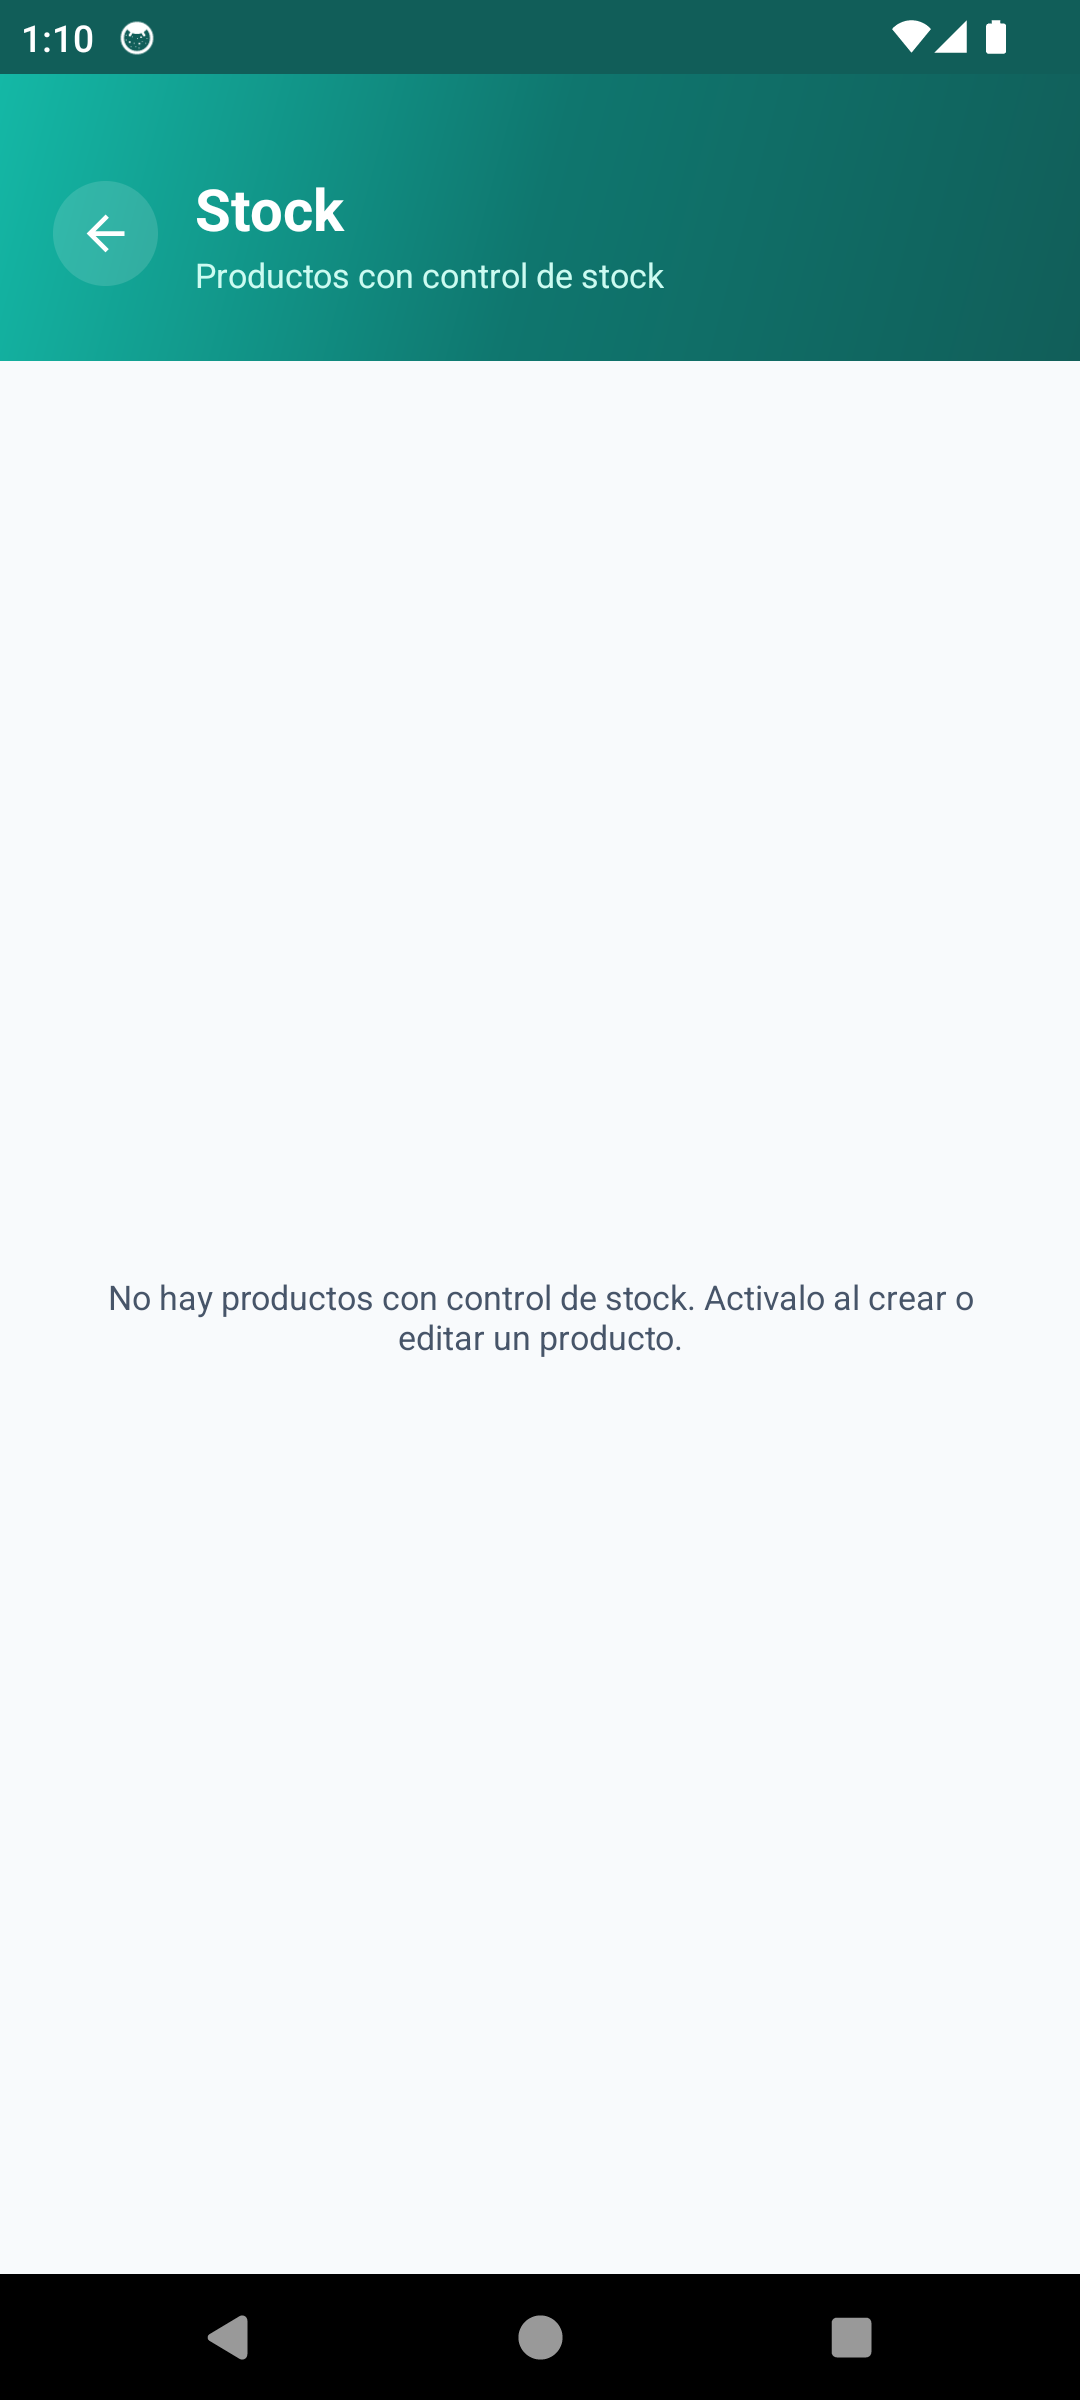
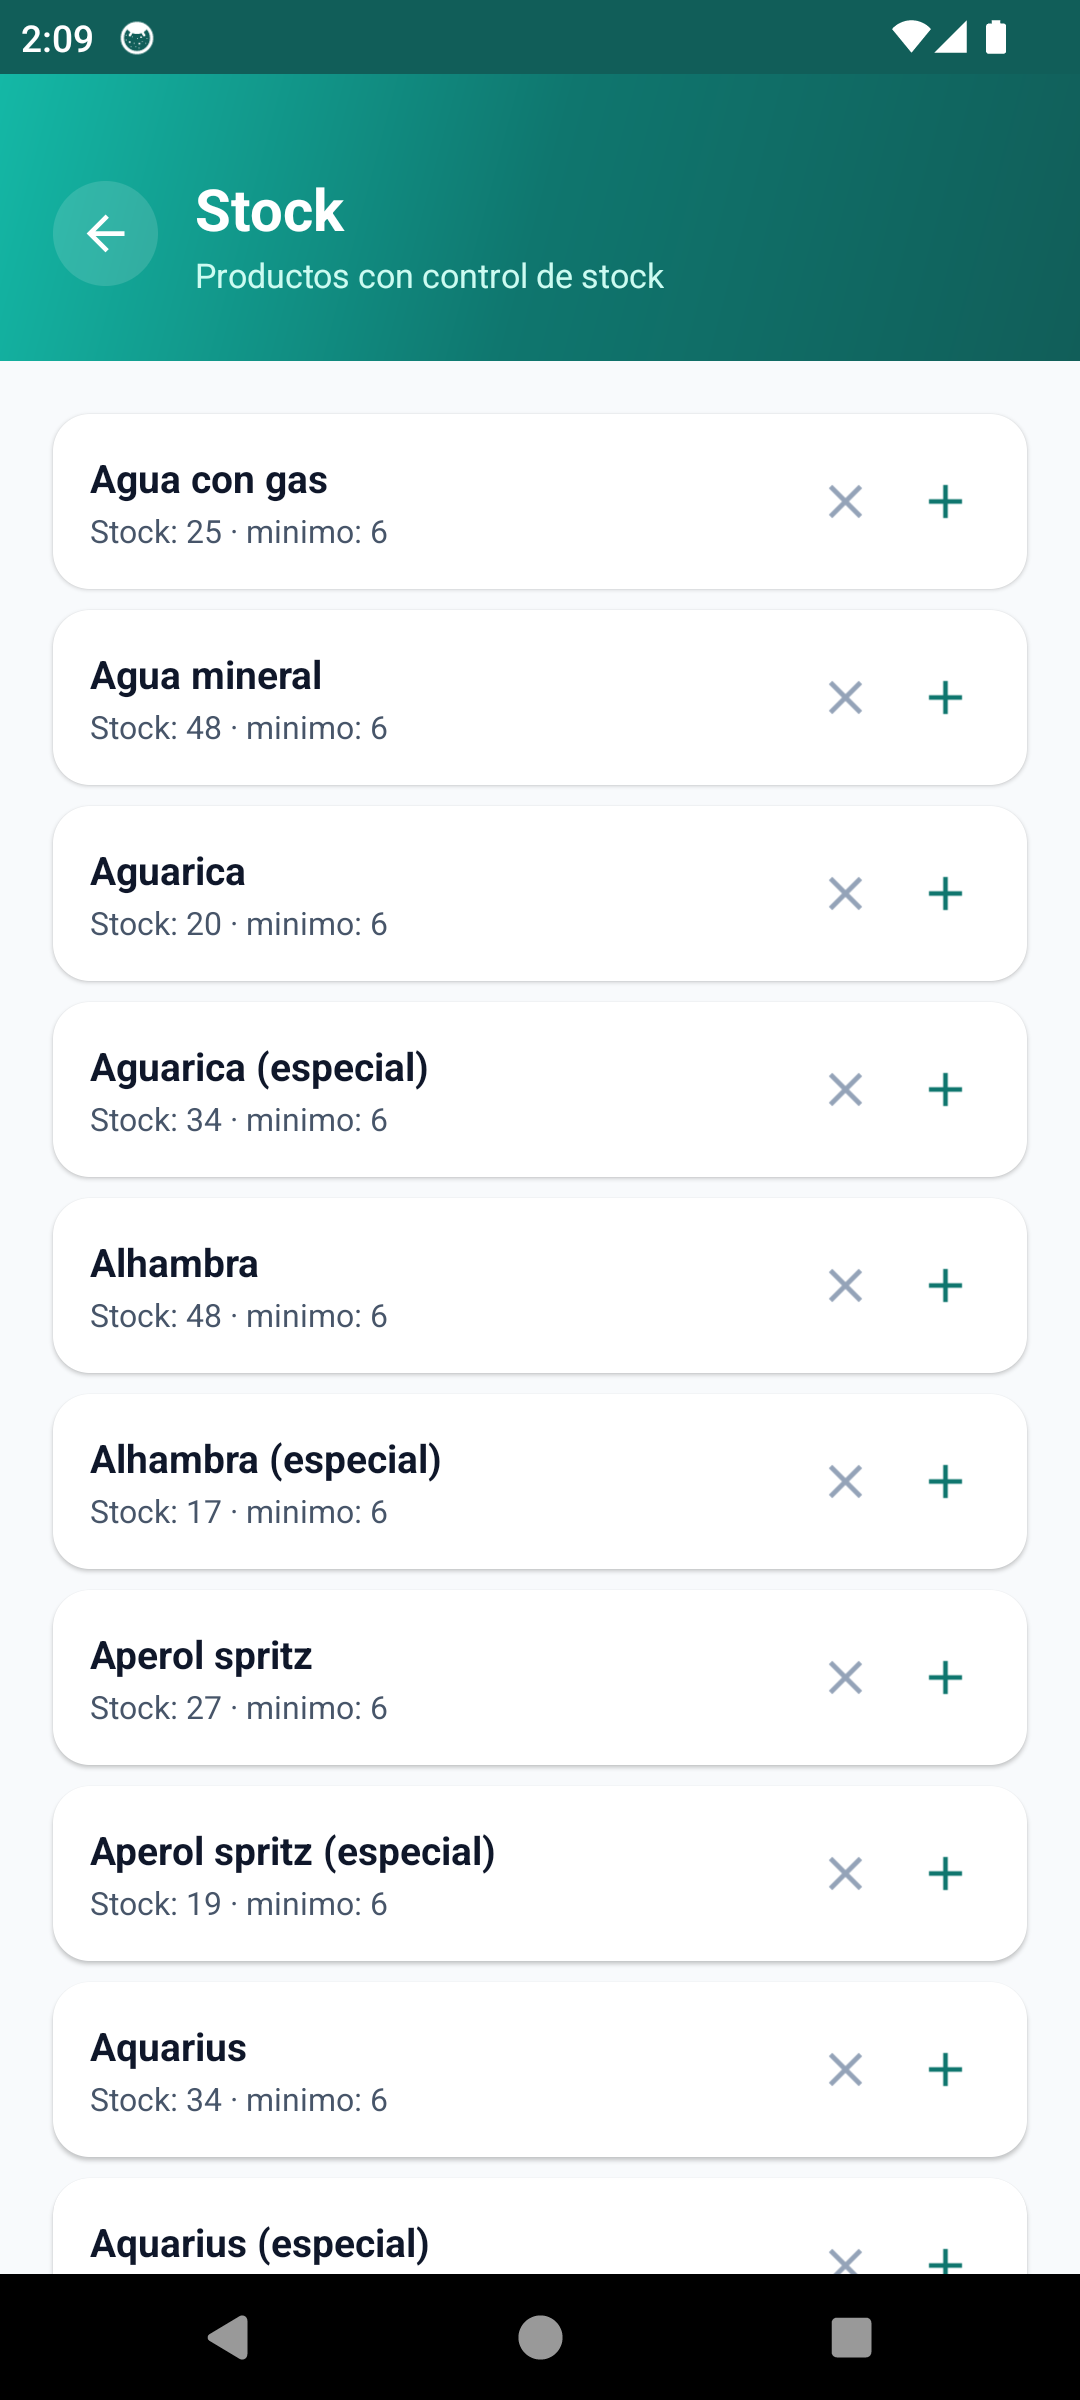
Actualiza capturas y mapa de errores tras corregir todo; seeder cliente

diff --git a/firestore-tests/seed-cliente.js b/firestore-tests/seed-cliente.js
@@ -1,0 +1,67 @@
+/**
+ * Sembrado en vivo usando el usuario de demo (sin service account).
+ * Respeta las reglas: crea productos y mesas, y desactiva (no borra) el
+ * catalogo antiguo. Soluciona E2 (mesas) y E3 (catalogo) contra la BBDD real.
+ *
+ * Uso: cd firestore-tests && node seed-cliente.js
+ */
+const { initializeApp } = require("firebase/app");
+const { getAuth, signInWithEmailAndPassword } = require("firebase/auth");
+const {
+  getFirestore, collection, doc, getDocs, writeBatch,
+} = require("firebase/firestore");
+const { generarProductos } = require("../tools/seed/generarProductos");
+
+const firebaseConfig = {
+  apiKey: "AIzaSyBTk9Ie7BfSkZmSkEEvM_-7_PcTCR5tBUw",
+  authDomain: "tfg-softba.firebaseapp.com",
+  projectId: "tfg-softba",
+};
+
+const EMAIL = "fer@softbar.com";
+const PASS = "123456";
+
+async function main() {
+  const app = initializeApp(firebaseConfig);
+  const auth = getAuth(app);
+  const db = getFirestore(app);
+
+  await signInWithEmailAndPassword(auth, EMAIL, PASS);
+  console.log("Autenticado como", EMAIL);
+
+  // 1) Desactivar catalogo antiguo (no se puede borrar por reglas).
+  const actuales = await getDocs(collection(db, "productos"));
+  let b = writeBatch(db);
+  let n = 0;
+  actuales.forEach((d) => {
+    b.set(doc(db, "productos", d.id), { ...d.data(), activo: false }, { merge: true });
+    if (++n % 400 === 0) { /* flush mas abajo */ }
+  });
+  if (n > 0) await b.commit();
+  console.log("Catalogo antiguo desactivado:", n);
+
+  // 2) Crear catalogo nuevo (~285 productos activos).
+  const productos = generarProductos();
+  let batch = writeBatch(db);
+  let pend = 0, total = 0;
+  for (const p of productos) {
+    batch.set(doc(db, "productos", p.codigoBarras), p);
+    total++;
+    if (++pend === 400) { await batch.commit(); batch = writeBatch(db); pend = 0; }
+  }
+  if (pend > 0) await batch.commit();
+  console.log("Productos creados:", total);
+
+  // 3) Reiniciar mesas 1..10 a libre (crea la que falte, p. ej. la 2).
+  const mb = writeBatch(db);
+  for (let i = 1; i <= 10; i++) {
+    mb.set(doc(db, "mesas", String(i)),
+      { numero: i, estado: "libre", comandaActivaId: null });
+  }
+  await mb.commit();
+  console.log("Mesas reiniciadas: 10 (libres)");
+
+  console.log("Hecho. Catalogo y mesas listos para las capturas.");
+}
+
+main().then(() => process.exit(0)).catch((e) => { console.error(e); process.exit(1); });

diff --git a/app/src/main/java/com/SOFTBAR_F_A/ui/home/HomeActivity.java b/app/src/main/java/com/SOFTBAR_F_A/ui/home/HomeActivity.java
@@ -4,8 +4,6 @@ import android.content.Context;
 import android.content.Intent;
 import android.net.ConnectivityManager;
 import android.net.Network;
-import android.net.NetworkCapabilities;
-import android.net.NetworkRequest;
 import android.os.Bundle;
 import android.view.View;
 import android.widget.Button;
@@ -154,13 +152,12 @@ public class HomeActivity extends AppCompatActivity {
                 getSystemService(Context.CONNECTIVITY_SERVICE);
         if (cm == null) return;
 
-        // Estado inicial
-        actualizarEstadoConexion(hayInternet(cm));
+        // Estado inicial: hay red por defecto disponible.
+        actualizarEstadoConexion(cm.getActiveNetwork() != null);
 
-        NetworkRequest request = new NetworkRequest.Builder()
-                .addCapability(NetworkCapabilities.NET_CAPABILITY_INTERNET)
-                .build();
-
+        // Callback de la red por defecto: refleja la conexion real sin exigir
+        // que el transporte anuncie NET_CAPABILITY_INTERNET (algunos
+        // dispositivos/emuladores no lo reportan aunque haya internet).
         networkCallback = new ConnectivityManager.NetworkCallback() {
             @Override
             public void onAvailable(Network network) {
@@ -172,14 +169,7 @@ public class HomeActivity extends AppCompatActivity {
                 runOnUiThread(() -> actualizarEstadoConexion(false));
             }
         };
-        cm.registerNetworkCallback(request, networkCallback);
-    }
-
-    private boolean hayInternet(ConnectivityManager cm) {
-        Network red = cm.getActiveNetwork();
-        if (red == null) return false;
-        NetworkCapabilities caps = cm.getNetworkCapabilities(red);
-        return caps != null && caps.hasCapability(NetworkCapabilities.NET_CAPABILITY_INTERNET);
+        cm.registerDefaultNetworkCallback(networkCallback);
     }
 
     private void actualizarEstadoConexion(boolean online) {

diff --git a/app/src/main/java/com/SOFTBAR_F_A/ui/ticket/TicketActivity.java b/app/src/main/java/com/SOFTBAR_F_A/ui/ticket/TicketActivity.java
@@ -22,7 +22,6 @@ import com.SOFTBAR_F_A.data.firebase.FirestoreSchema;
 import com.SOFTBAR_F_A.data.repository.RectificacionRepository;
 import com.SOFTBAR_F_A.data.verifactu.Factura;
 import com.SOFTBAR_F_A.data.verifactu.GeneradorQrVerifactu;
-import com.SOFTBAR_F_A.ui.common.ConexionUtil;
 import com.SOFTBAR_F_A.ui.common.Header;
 import com.SOFTBAR_F_A.ui.common.PersonalizacionLinea;
 import com.google.firebase.auth.FirebaseAuth;
@@ -166,10 +165,6 @@ public class TicketActivity extends AppCompatActivity {
     private void rectificar() {
         FirebaseUser user = FirebaseAuth.getInstance().getCurrentUser();
         if (user == null) return;
-        if (!ConexionUtil.hayConexion(this)) {
-            Toast.makeText(this, R.string.cobro_sin_conexion, Toast.LENGTH_LONG).show();
-            return;
-        }
         btnRectificar.setEnabled(false);
 
         new RectificacionRepository().rectificar(facturaActual, user,

diff --git a/app/src/main/java/com/SOFTBAR_F_A/ui/cobro/CobroActivity.java b/app/src/main/java/com/SOFTBAR_F_A/ui/cobro/CobroActivity.java
@@ -16,7 +16,6 @@ import com.SOFTBAR_F_A.data.Dinero;
 import com.SOFTBAR_F_A.data.LineaComanda;
 import com.SOFTBAR_F_A.data.repository.CobroRepository;
 import com.SOFTBAR_F_A.ui.comanda.ComandaActivity;
-import com.SOFTBAR_F_A.ui.common.ConexionUtil;
 import com.SOFTBAR_F_A.ui.common.Header;
 import com.SOFTBAR_F_A.ui.mesas.MesasActivity;
 import com.SOFTBAR_F_A.ui.ticket.TicketActivity;
@@ -105,10 +104,6 @@ public class CobroActivity extends AppCompatActivity {
         if (cobroEnCurso) return;
         if (!validarPago()) {
             Toast.makeText(this, R.string.cobro_error_importe, Toast.LENGTH_SHORT).show();
-            return;
-        }
-        if (!ConexionUtil.hayConexion(this)) {
-            Toast.makeText(this, R.string.cobro_sin_conexion, Toast.LENGTH_LONG).show();
             return;
         }
 

diff --git a/docs/obsidian/Mapa de navegacion.md b/docs/obsidian/Mapa de navegacion.md
@@ -48,15 +48,21 @@ flowchart TD
 
 ## Registro global de errores y correcciones
 
-| # | Severidad | Pantallas | Error | Estado | Correccion propuesta |
+| # | Severidad | Pantallas | Error | Estado | Correccion aplicada |
 |---|---|---|---|---|---|
-| E1 | Alta | [[Home]], [[Cobro]], [[Ticket]] | La deteccion de conexion da **falso negativo**: con internet real (ping OK a Firestore) la app marca "Sin conexion" y **bloquea el cobro/rectificacion** | Abierto | No bloquear de forma dura por `ConnectivityManager`; comprobar tambien `NET_CAPABILITY_VALIDATED` o intentar la transaccion y gestionar el fallo de Firestore |
-| E2 | Media | [[Mesas]] | Datos de prueba antiguos: falta la mesa 2 y varias salen ocupadas sin comanda real | Abierto | Ejecutar `tools/seed` (reinicia mesas y limpia actividad) |
-| E3 | Media | [[Comanda]], [[Configuracion]] | Catalogo con ~6 productos antiguos en vez del catalogo real | Abierto | Ejecutar `tools/seed` (~285 productos) |
-| E4 | Baja | [[Comanda]], [[Barra]], [[Configuracion]], [[Stock]] | Listas sin `RecyclerView`: posible tiron con cientos de productos | Documentado | Migrar a `RecyclerView` (mejora futura; mitigado filtrando por categoria) |
+| E1 | Alta | [[Home]], [[Cobro]], [[Ticket]] | La deteccion de conexion daba **falso negativo**: con internet real la app marcaba "Sin conexion" y bloqueaba el cobro/rectificacion | **Resuelto** | Home usa `registerDefaultNetworkCallback`; se quito el bloqueo duro del cobro/rectificacion (la transaccion ya impide numeracion duplicada offline). Verificado: Home "Online" y venta completada (ticket A-0013/2026) |
+| E2 | Media | [[Mesas]] | Datos antiguos: faltaba la mesa 2 y varias ocupadas | **Resuelto** | Sembrado en vivo (`firestore-tests/seed-cliente.js`): 10 mesas a "libre". Verificado |
+| E3 | Media | [[Comanda]], [[Configuracion]] | Catalogo con ~6 productos antiguos | **Resuelto** | Catalogo antiguo desactivado + 285 productos creados (`seed-cliente.js`). Verificado en comanda/config |
+| E4 | Baja | [[Comanda]], [[Barra]], [[Configuracion]], [[Stock]] | Listas sin `RecyclerView`: tiron con cientos de productos y "Cobrar" enterrado bajo el catalogo | **Resuelto** | Catalogo (comanda/barra), Config y Stock migrados a `RecyclerView`; comanda/barra rediseñadas con catalogo que recicla y barra inferior fija. Verificado |
+
+Notas de la correccion:
+
+- Para asignar el primer administrador se desplegaron temporalmente unas reglas
+  de bootstrap y luego se restauraron las estrictas (las reglas, correctamente,
+  impiden el auto-ascenso de rol).
+- Las reglas endurecidas del repo se **desplegaron a produccion** (`tfg-softba`).
 
 ## Capturas pendientes
 
-- [[Login]]: requiere cerrar sesion (offline no se puede volver a entrar).
-- [[Ticket]]: bloqueado por **E1** (el cobro no se completa). Se capturara al
-  corregir E1 o en un equipo donde la conexion se detecte bien.
+- [[Login]]: requiere cerrar sesion (sin conexion no se puede volver a entrar);
+  se capturara en un arranque limpio.

diff --git a/docs/obsidian/pantallas/Ticket.md b/docs/obsidian/pantallas/Ticket.md
@@ -3,8 +3,7 @@ tags: [pantalla]
 ---
 # Ticket
 
-> Captura pendiente: depende de completar un cobro, hoy bloqueado por **E1**
-> (falso negativo de conexion). Se capturara al corregir E1.
+![[ticket.png]]
 
 Muestra numero de factura, base imponible, IVA, desglose de pago, QR Verifactu y
 hash. Boton de rectificar (admin/caja) que genera la factura rectificativa.
@@ -15,4 +14,4 @@ hash. Boton de rectificar (admin/caja) que genera la factura rectificativa.
 
 | Fecha | Severidad | Error | Estado | Correccion |
 |---|---|---|---|---|
-| 2026-06-07 | Info | Sin captura (bloqueada por E1) | Pendiente | Capturar tras corregir E1 |
+| 2026-06-07 | Alta | No se alcanzaba por el falso negativo de conexion (E1) | Resuelto | Corregido E1; venta completada y ticket A-0013/2026 capturado |

diff --git a/docs/obsidian/pantallas/Home.md b/docs/obsidian/pantallas/Home.md
@@ -15,5 +15,5 @@ de conexion y los modulos segun permisos.
 
 | Fecha | Severidad | Error | Estado | Correccion |
 |---|---|---|---|---|
-| 2026-06-07 | Alta | Indicador "Sin conexion" con internet real (ver E1 del [[Mapa de navegacion]]) | Abierto | Revisar deteccion de conexion |
-| 2026-06-07 | Info | No muestra el rol junto al email al estar el perfil sin cargar (offline) | Abierto | Cargar `usuarios/{uid}` o mostrar rol por defecto |
+| 2026-06-07 | Alta | Indicador "Sin conexion" con internet real (E1) | Resuelto | `registerDefaultNetworkCallback`; ahora muestra "Online" |
+| 2026-06-07 | Info | Rol no visible junto al email | Resuelto | Con conexion carga `usuarios/{uid}`; muestra "administrador" |

diff --git a/docs/obsidian/pantallas/Cobro.md b/docs/obsidian/pantallas/Cobro.md
@@ -14,5 +14,4 @@ Total a cobrar, metodo de pago (efectivo/tarjeta/mixto), desglose y cambio.
 
 | Fecha | Severidad | Error | Estado | Correccion |
 |---|---|---|---|---|
-| 2026-06-07 | Alta | "Confirmar pago" no avanza: bloqueado por el falso negativo de conexion (ver E1) pese a haber internet | Abierto | Revisar deteccion de conexion / no bloquear de forma dura |
-| 2026-06-07 | - | Layout, metodos y calculo de cambio: OK | OK | - |
+| 2026-06-07 | Alta | "Confirmar pago" no avanzaba por el falso negativo de conexion (E1) | Resuelto | Quitado el bloqueo duro; venta completada -> ticket |

diff --git a/docs/obsidian/pantallas/Stock.md b/docs/obsidian/pantallas/Stock.md
@@ -14,5 +14,5 @@ rapida (+/-) o fijando cantidad.
 
 | Fecha | Severidad | Error | Estado | Correccion |
 |---|---|---|---|---|
-| 2026-06-07 | Baja | Lista sin `RecyclerView` (ver E4) | Documentado | Mejora futura |
-| 2026-06-07 | Info | Pocos productos con stock hasta ejecutar `tools/seed` | Abierto | Ejecutar `tools/seed` |
+| 2026-06-07 | Baja | Lista sin `RecyclerView` (E4) | Resuelto | Migrada a `RecyclerView` (`StockAdapter`) |
+| 2026-06-07 | Info | Pocos productos con stock | Resuelto | ~110 productos con control de stock tras el sembrado |

diff --git a/docs/obsidian/pantallas/Configuracion.md b/docs/obsidian/pantallas/Configuracion.md
@@ -14,5 +14,5 @@ control de stock y desactivacion.
 
 | Fecha | Severidad | Error | Estado | Correccion |
 |---|---|---|---|---|
-| 2026-06-07 | Media | Catalogo con datos antiguos (ver E3) | Abierto | Ejecutar `tools/seed` |
-| 2026-06-07 | Baja | Lista sin `RecyclerView` (ver E4) | Documentado | Mejora futura |
+| 2026-06-07 | Media | Catalogo con datos antiguos (E3) | Resuelto | 285 productos; los viejos quedan "(inactivo)" |
+| 2026-06-07 | Baja | Lista sin `RecyclerView` (E4) | Resuelto | Migrada a `RecyclerView` (`ProductoConfigAdapter`) |

diff --git a/docs/obsidian/pantallas/Comanda.md b/docs/obsidian/pantallas/Comanda.md
@@ -19,5 +19,5 @@ Con lineas anadidas:
 
 | Fecha | Severidad | Error | Estado | Correccion |
 |---|---|---|---|---|
-| 2026-06-07 | Media | Catalogo con pocos productos antiguos (ver E3) | Abierto | Ejecutar `tools/seed` |
-| 2026-06-07 | - | Filtro de categorias y suma de total: OK | OK | - |
+| 2026-06-07 | Media | Catalogo con pocos productos antiguos (E3) | Resuelto | 285 productos sembrados |
+| 2026-06-07 | Baja | Catalogo sin reciclar y "Cobrar" enterrado (E4) | Resuelto | Catalogo en `RecyclerView` + barra inferior fija |

diff --git a/docs/obsidian/pantallas/Barra.md b/docs/obsidian/pantallas/Barra.md
@@ -15,4 +15,5 @@ memoria y paso directo a cobro.
 
 | Fecha | Severidad | Error | Estado | Correccion |
 |---|---|---|---|---|
-| 2026-06-07 | Media | Mismo catalogo antiguo que [[Comanda]] (ver E3) | Abierto | Ejecutar `tools/seed` |
+| 2026-06-07 | Media | Mismo catalogo antiguo que [[Comanda]] (E3) | Resuelto | 285 productos sembrados |
+| 2026-06-07 | Baja | Catalogo sin reciclar (E4) | Resuelto | Catalogo en `RecyclerView` + barra inferior fija |
